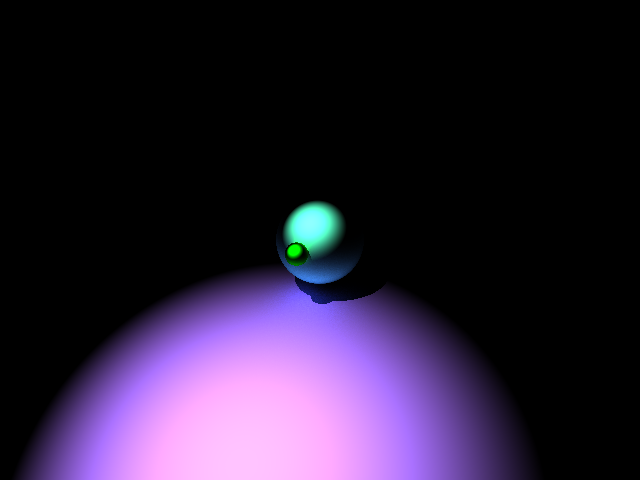
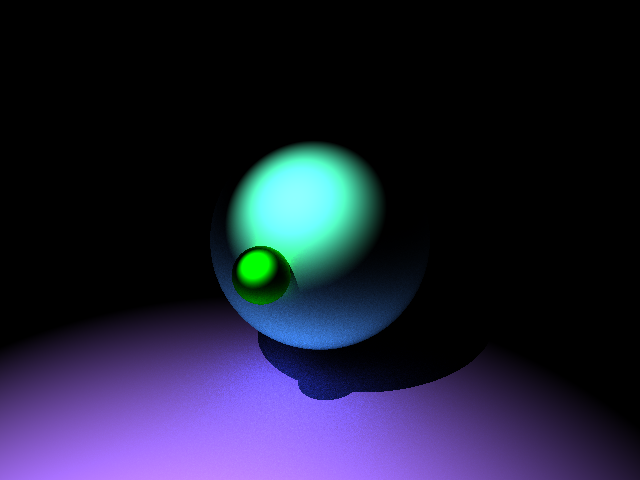
支持并行渲染

diff --git a/03_ol_renderer/tests/pathtracing.rs b/03_ol_renderer/tests/pathtracing.rs
@@ -1,16 +1,19 @@
 extern crate image;
+extern crate rayon;
 extern crate renderer;
 
 use renderer::*;
 
 const IMG_W: u32 = 640;
 const IMG_H: u32 = 480;
-const CAM_W: Real = 1.0;
+const CAM_W: Real = 0.4;
 const CAM_H: Real = CAM_W * (IMG_H as Real) / (IMG_W as Real);
-const ITER_CNT: u32 = 4096;
+const ITER_CNT: u32 = 1024;
 
 #[test]
 fn test_path_tracer() {
+    use rayon::prelude::*;
+
     let camera = PerspectiveCamera::new(
         vec3(5.0, 3.0, 0.0),
         vec3(0.0, 0.0, 0.0),
@@ -74,7 +77,10 @@ fn test_path_tracer() {
         let y = -2.0 * y as Real / (IMG_H - 1) as Real + 1.0;
         let ray = camera.scr_to_ray(vec2(x, y));
 
-        let c = (0..ITER_CNT).fold(BLACK, |acc, _| acc + renderer.render(ray.clone()));
+        let c: Color3f = (0..ITER_CNT)
+            .into_par_iter()
+            .map(|_| renderer.render(ray.clone()))
+            .sum();
         let c = (c / ITER_CNT as Real).clamp(0.0, 1.0);
 
         image::Rgb {

diff --git a/03_ol_renderer/src/entity/mod.rs b/03_ol_renderer/src/entity/mod.rs
@@ -37,7 +37,7 @@ impl Intersection {
 /// An entity doesn't need to be a single 'object'.
 /// An entity can also be an BVH tree of other entities,
 /// an visivle light source, or anything else that can be in the rendered scene.
-pub trait Entity {
+pub trait Entity: Sync {
     fn inct(&self, r: Ray) -> Option<Intersection>;
 
     fn has_inct(&self, r: Ray) -> Option<(Real, Vec3f)>;

diff --git a/03_ol_renderer/src/entity/sphere.rs b/03_ol_renderer/src/entity/sphere.rs
@@ -16,7 +16,7 @@ where
 impl<M, FM> Entity for Sphere<M, FM>
 where
     M: BxDF + 'static,
-    FM: Fn(Vec3f, Vec3f, Vec3f, Real, Real) -> Box<M>,
+    FM: Sync + Fn(Vec3f, Vec3f, Vec3f, Real, Real) -> Box<M>,
 {
     fn inct(&self, r: Ray) -> Option<Intersection> {
         if let Some((t, p)) = self.sph.nearest_inct(r) {

diff --git a/03_ol_renderer/src/light/mod.rs b/03_ol_renderer/src/light/mod.rs
@@ -14,7 +14,7 @@ pub struct LightSample {
     pub color: Color3f,
 }
 
-pub trait Light {
+pub trait Light: Sync {
     fn sample(&self, n: u32) -> Vec<LightSample>;
     fn pdf(&self, ray: Ray) -> Real;
 
